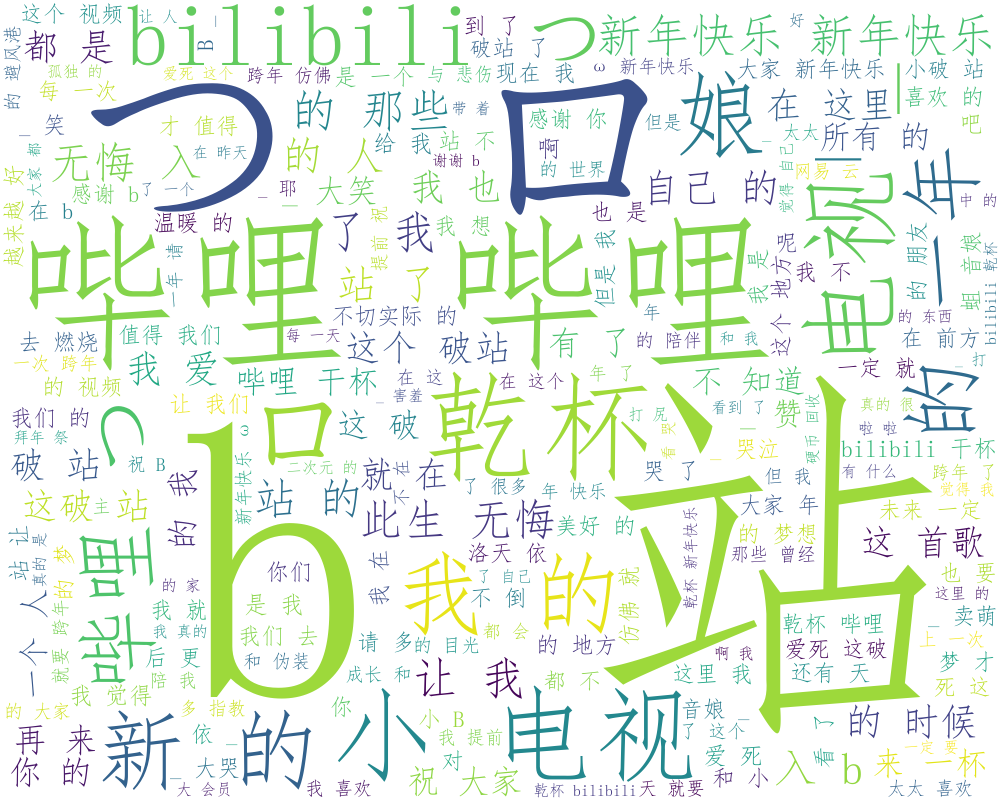
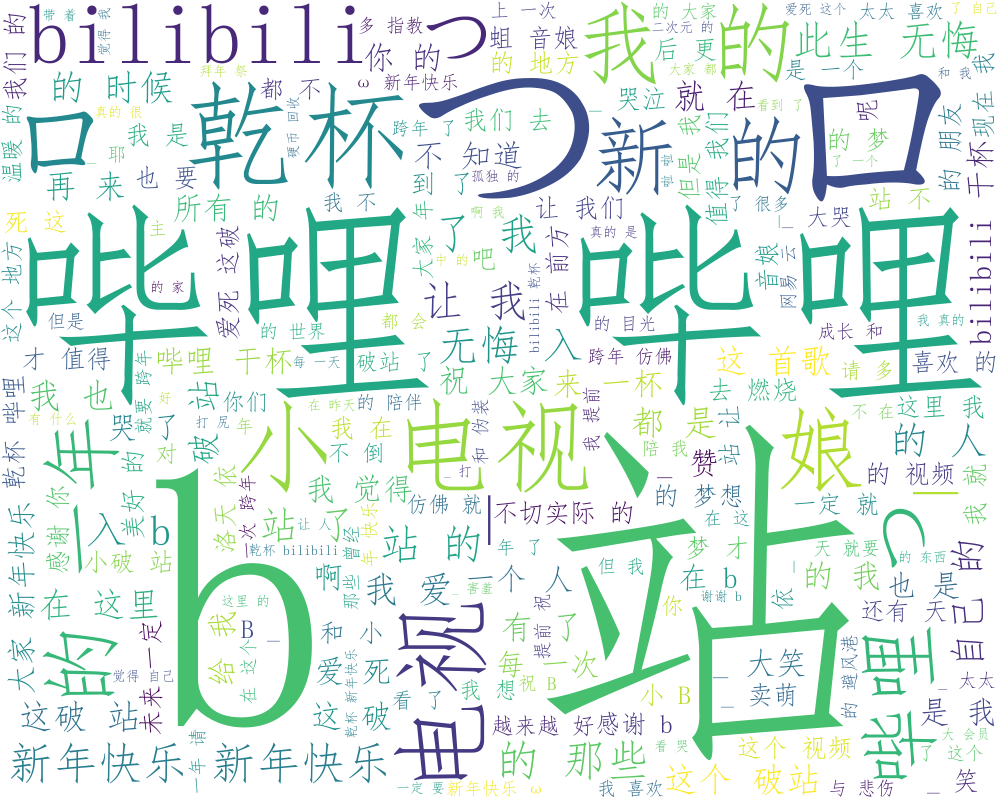
pycharm运行

diff --git a/B站视频评论爬虫/BilibiliVideoCommentsSpider.py b/B站视频评论爬虫/BilibiliVideoCommentsSpider.py
@@ -2,6 +2,11 @@ import requests
 import time
 from bs4 import BeautifulSoup
 import json
+#根据爬取的评论生成的txt文件生成词云
+from wordcloud import WordCloud
+import matplotlib.pyplot as plt
+import  jieba
+from PIL import Image
 
 #爬取视频评论   https://www.bilibili.com/video/av17784172
 
@@ -70,29 +75,21 @@ if __name__ == '__main__':
                 time.sleep(5)
         except:
             e=1
+    path_txt='BiliBili评论.txt'
+    f = open(path_txt,'r',encoding='UTF-8').read()
 
+    # 结巴分词，生成字符串，wordcloud是英文库，无法直接生成正确的中文词云
+    cut_text = " ".join(jieba.cut(f))
 
-#根据爬取的评论生成的txt文件生成词云
-from wordcloud import WordCloud
-import matplotlib.pyplot as plt  
-import  jieba     
-from PIL import Image               
+    wordcloud = WordCloud(
+       font_path="C:/Windows/Fonts/simfang.ttf",
+       #设置字体
+       background_color="white",
+       #背景颜色
+       width=1000,height=800).generate(cut_text)
+       #设置图片宽和高
 
-path_txt='BiliBili评论.txt'
-f = open(path_txt,'r',encoding='UTF-8').read()
-
-# 结巴分词，生成字符串，wordcloud是英文库，无法直接生成正确的中文词云
-cut_text = " ".join(jieba.cut(f))
-
-wordcloud = WordCloud(
-   font_path="C:/Windows/Fonts/simfang.ttf",
-   #设置字体
-   background_color="white",
-   #背景颜色
-   width=1000,height=800).generate(cut_text)
-   #设置图片宽和高
-
-plt.imshow(wordcloud, interpolation="bilinear")
-plt.axis("off")
-plt.show()
-wordcloud.to_file("哔哩哔哩词云.png") 
+    plt.imshow(wordcloud, interpolation="bilinear")
+    plt.axis("off")
+    plt.show()
+    wordcloud.to_file("哔哩哔哩词云.png")

diff --git a/README.md b/README.md
@@ -2,3 +2,36 @@
 
 #### 介绍
 哔哩哔哩视频评论爬虫，并生成词云
+
+#### 软件架构
+软件架构说明
+
+
+#### 安装教程
+
+1.  xxxx
+2.  xxxx
+3.  xxxx
+
+#### 使用说明
+
+1.  xxxx
+2.  xxxx
+3.  xxxx
+
+#### 参与贡献
+
+1.  Fork 本仓库
+2.  新建 Feat_xxx 分支
+3.  提交代码
+4.  新建 Pull Request
+
+
+#### 特技
+
+1.  使用 Readme\_XXX.md 来支持不同的语言，例如 Readme\_en.md, Readme\_zh.md
+2.  Gitee 官方博客 [blog.gitee.com](https://blog.gitee.com)
+3.  你可以 [https://gitee.com/explore](https://gitee.com/explore) 这个地址来了解 Gitee 上的优秀开源项目
+4.  [GVP](https://gitee.com/gvp) 全称是 Gitee 最有价值开源项目，是综合评定出的优秀开源项目
+5.  Gitee 官方提供的使用手册 [https://gitee.com/help](https://gitee.com/help)
+6.  Gitee 封面人物是一档用来展示 Gitee 会员风采的栏目 [https://gitee.com/gitee-stars/](https://gitee.com/gitee-stars/)
